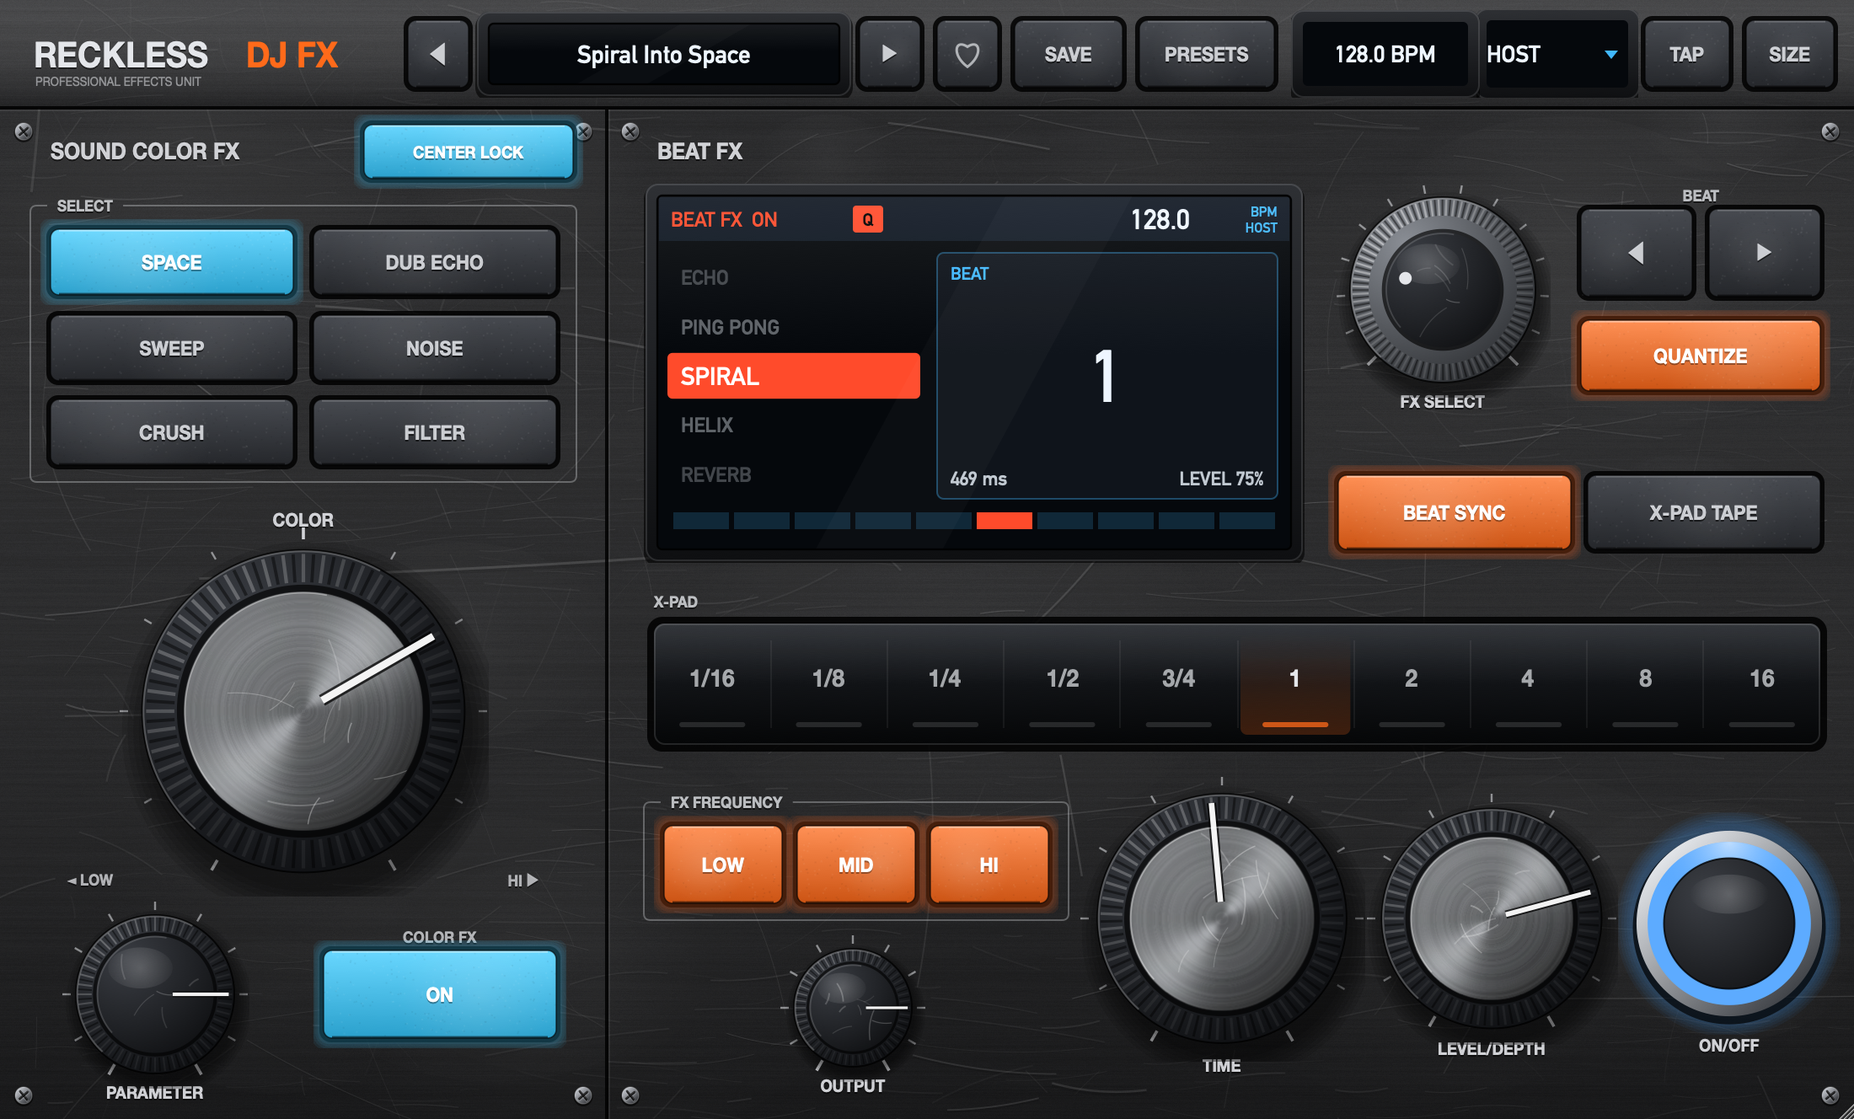
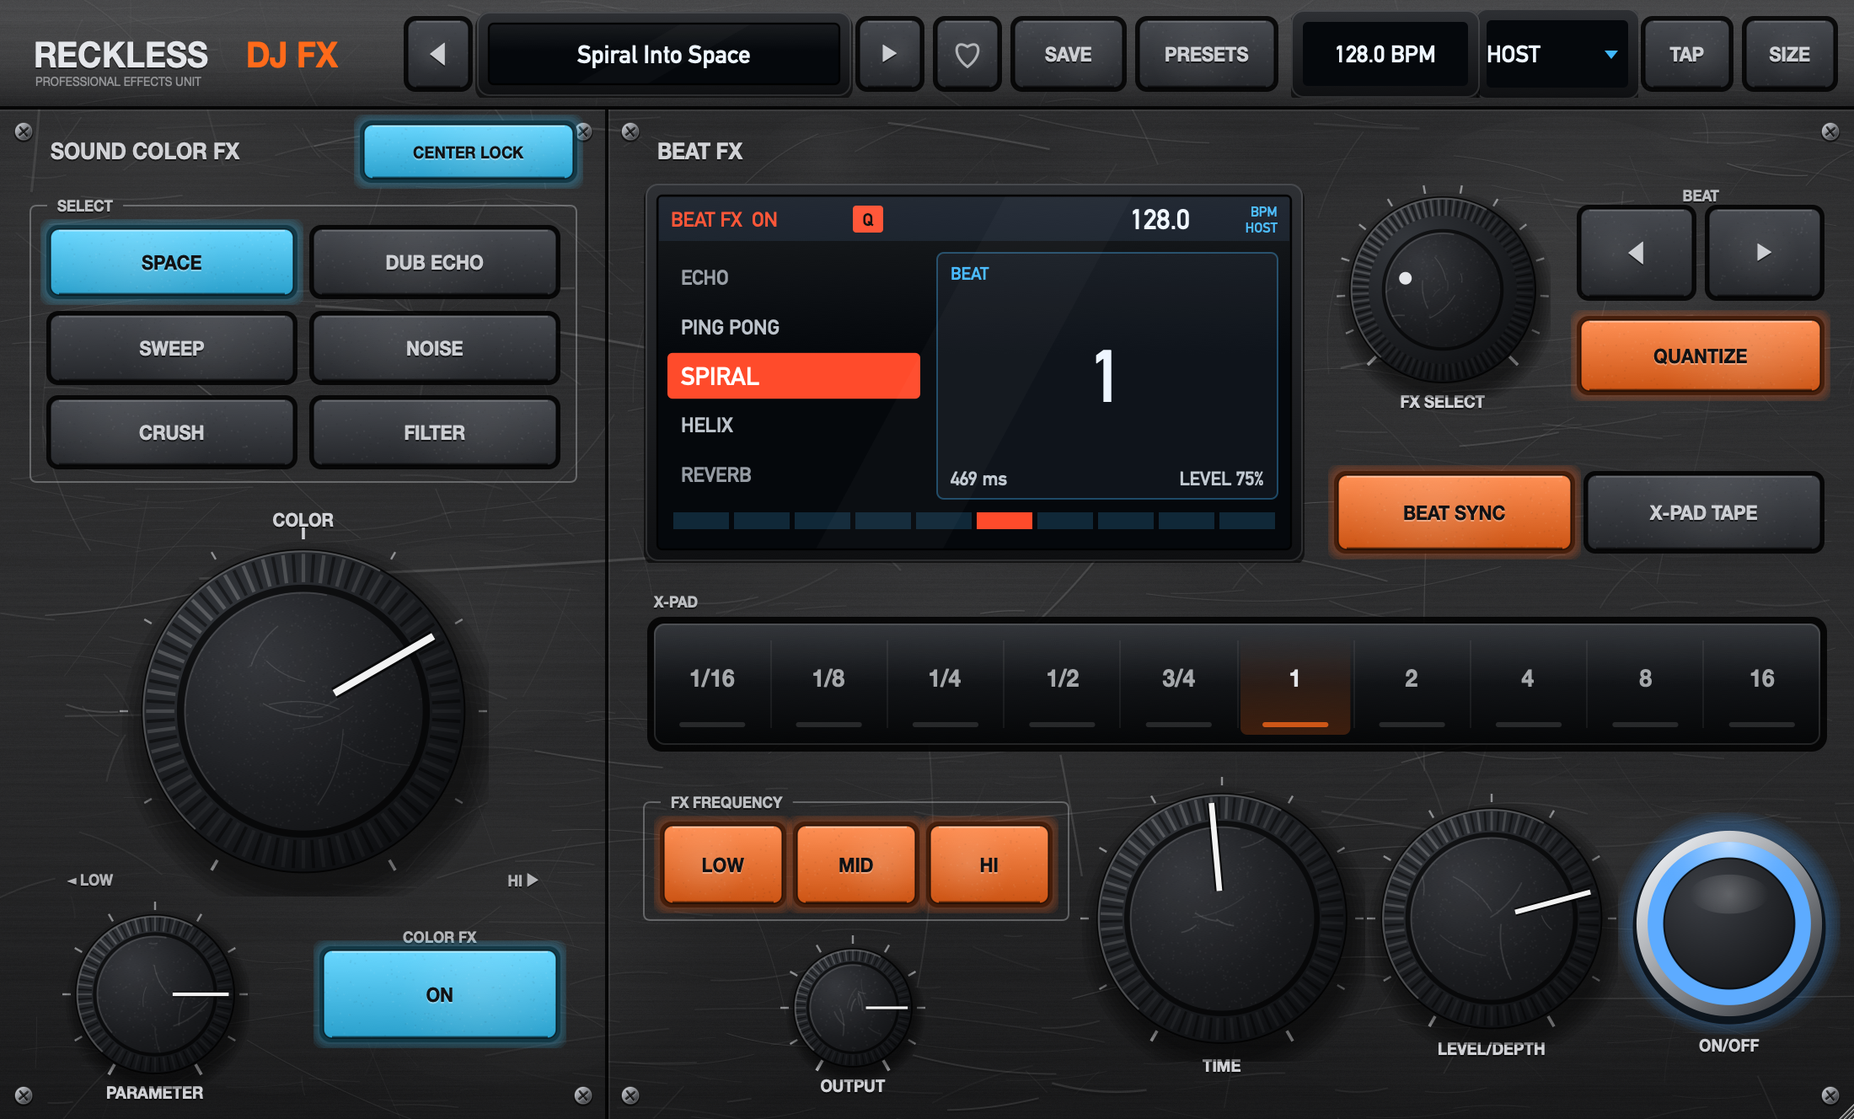
UI audit fixes: matte black knobs, readable lit keys, Color FX key toggle
- Knobs are matte black plastic like the mixer (spun-aluminium caps removed)
- Lit rubber keys use a dark legend (white on orange/cyan was < 3:1)
- LCD effect list: neighbours readable (>= 4.5:1) since they are clickable
- Color FX keys light only while on; pressing the lit key switches it off
- TIME knob greyed out more clearly while BEAT SYNC is on
- Beat panel repaints the screen/X-Pad only when shown values change,
  and the ON/OFF ring only while the effect is audible

diff --git a/Source/ui/Hardware.cpp b/Source/ui/Hardware.cpp
@@ -70,47 +70,6 @@ void scratch (juce::Graphics& g, juce::Random& rng, juce::Rectangle<float> area,
         g.strokePath (p, juce::PathStrokeType (width * 0.8f));
     }
 }
-/** Spun-aluminium cap rendered per pixel (no wedge seams): light gradient, concentric lathe rings
-    and the anisotropic "bow-tie" highlight typical of turned metal. Cached by pixel size. */
-const juce::Image& spunCap (int diameter, juce::uint32 seed)
-{
-    static std::map<std::pair<int, juce::uint32>, juce::Image> cache;
-    auto key = std::make_pair (diameter, seed);
-    if (auto it = cache.find (key); it != cache.end())
-        return it->second;
-
-    juce::Image img (juce::Image::ARGB, diameter, diameter, true);
-    juce::Random rng ((juce::int64) seed);
-    const float R = (float) diameter * 0.5f;
-    std::vector<float> rings ((size_t) diameter + 2);
-    float drift = 0.0f;
-    for (auto& v : rings)
-    {
-        drift = drift * 0.7f + (rng.nextFloat() - 0.5f) * 0.05f;
-        v = drift + (rng.nextFloat() - 0.5f) * 0.035f;
-    }
-
-    juce::Image::BitmapData data (img, juce::Image::BitmapData::writeOnly);
-    for (int y = 0; y < diameter; ++y)
-        for (int x = 0; x < diameter; ++x)
-        {
-            const float dx = (float) x + 0.5f - R, dy = (float) y + 0.5f - R;
-            const float dist = std::sqrt (dx * dx + dy * dy);
-            if (dist > R + 0.5f)
-                continue;
-            const float edgeAlpha = juce::jlimit (0.0f, 1.0f, R + 0.5f - dist);
-            const float th = std::atan2 (dy, dx);
-            const float lin = -(dx + dy) / (R * 1.4142f);                              // light from top-left
-            const float aniso = std::pow (std::abs (std::cos (th + juce::MathConstants<float>::pi * 0.25f)), 10.0f);
-            const float centreFade = juce::jlimit (0.0f, 1.0f, dist / (R * 0.15f));
-            float lum = 0.58f + 0.22f * lin + 0.40f * aniso * centreFade + rings[(size_t) (dist * 1.6f) % rings.size()];
-            lum -= 0.10f * std::pow (dist / R, 6.0f);                                  // darker rim
-            const auto v = (float) juce::jlimit (0.0f, 1.0f, lum);
-            data.setPixelColour (x, y, juce::Colour::fromFloatRGBA (v * 0.97f, v * 0.985f, v, edgeAlpha));
-        }
-
-    return cache.emplace (key, img).first->second;
-}
 } // namespace
 
 juce::uint32 seedOf (const juce::String& s) { return (juce::uint32) s.hashCode(); }
@@ -287,23 +246,22 @@ void drawKnob (juce::Graphics& g, juce::Rectangle<float> bounds, float angle, Kn
     }
 
     // Skirt
-    const bool metalSkirt = style == KnobStyle::Encoder;
+    const bool fineKnurl = style == KnobStyle::Encoder;
     {
-        juce::ColourGradient grad (metalSkirt ? juce::Colour (0xff8a8e95) : juce::Colour (0xff3b3e44),
-                                   c.translated (-r * 0.4f, -r * 0.5f),
-                                   metalSkirt ? juce::Colour (0xff1e2023) : juce::Colour (0xff07080a),
+        juce::ColourGradient grad (juce::Colour (0xff34373c), c.translated (-r * 0.4f, -r * 0.5f),
+                                   juce::Colour (0xff07080a),
                                    c.translated (r * 0.9f, r * 0.9f), true);
         g.setGradientFill (grad);
         g.fillEllipse (juce::Rectangle<float> (r * 2.0f, r * 2.0f).withCentre (c));
     }
 
     // Knurling (rotates with the knob)
-    const int ridges = metalSkirt ? 72 : 48;
+    const int ridges = fineKnurl ? 72 : 48;
     for (int k = 0; k < ridges; ++k)
     {
         const float th = angle + twoPi * (float) k / (float) ridges;
         const float lit = juce::jmax (0.0f, std::cos (th - kLightDir));
-        g.setColour (juce::Colours::white.withAlpha ((metalSkirt ? 0.10f : 0.05f) + (metalSkirt ? 0.35f : 0.20f) * lit));
+        g.setColour (juce::Colours::white.withAlpha (0.04f + 0.16f * lit));
         g.drawLine ({ polar (c, r * 0.80f, th), polar (c, r * 0.975f, th) }, juce::jmax (0.7f, r * 0.022f));
         const float th2 = th + twoPi * 0.5f / (float) ridges;
         g.setColour (juce::Colours::black.withAlpha (0.45f));
@@ -324,26 +282,26 @@ void drawKnob (juce::Graphics& g, juce::Rectangle<float> bounds, float angle, Kn
     g.setColour (juce::Colours::black.withAlpha (0.65f));
     g.fillEllipse (capRect.expanded (capR * 0.06f));
 
-    const bool metalCap = style == KnobStyle::Metal;
-    if (metalCap)
+    // Matte black plastic cap: soft diffuse shading, no specular, fine grain
     {
-        // Render the cap at the device resolution so it stays crisp when the editor is scaled up
-        const float pixelScale = juce::jmax (1.0f, g.getInternalContext().getPhysicalPixelScaleFactor());
-        // quantised to 16 px steps so free resizing does not fill the cache with every size
-        const int diameter = juce::jlimit (32, 1024, ((juce::roundToInt (capR * 2.0f * pixelScale) + 15) / 16) * 16);
-        g.drawImage (spunCap (diameter, seed), capRect, juce::RectanglePlacement::stretchToFit);
-    }
-    else
-    {
-        juce::ColourGradient grad (juce::Colour (0xff3a3d43), c.translated (-capR * 0.5f, -capR * 0.6f),
-                                   juce::Colour (0xff0c0d0f), c.translated (capR * 0.9f, capR * 0.9f), true);
+        juce::ColourGradient grad (juce::Colour (0xff2c2e33), c.translated (-capR * 0.45f, -capR * 0.55f),
+                                   juce::Colour (0xff111214), c.translated (capR * 0.9f, capR * 0.9f), true);
         g.setGradientFill (grad);
         g.fillEllipse (capRect);
-        // Glossy specular blob
-        const auto spec = juce::Rectangle<float> (capR * 1.1f, capR * 0.7f).withCentre (c.translated (-capR * 0.25f, -capR * 0.45f));
-        g.setGradientFill (juce::ColourGradient (juce::Colours::white.withAlpha (0.20f), spec.getCentre(),
-                                                 juce::Colours::transparentWhite, spec.getTopRight(), true));
-        g.fillEllipse (spec);
+        g.setGradientFill (juce::ColourGradient (juce::Colours::white.withAlpha (0.05f), c.translated (-capR * 0.3f, -capR * 0.4f),
+                                                 juce::Colours::transparentWhite, c.translated (capR * 0.6f, capR * 0.2f), true));
+        g.fillEllipse (capRect);
+
+        juce::Graphics::ScopedSaveState save (g);
+        juce::Path clip;
+        clip.addEllipse (capRect);
+        g.reduceClipRegion (clip);
+        const int grains = (int) (capR * capR * 0.35f);
+        for (int i = 0; i < grains; ++i)
+        {
+            g.setColour ((rng.nextBool() ? juce::Colours::white : juce::Colours::black).withAlpha (0.035f));
+            g.fillRect (capRect.getX() + rng.nextFloat() * capRect.getWidth(), capRect.getY() + rng.nextFloat() * capRect.getHeight(), 1.0f, 1.0f);
+        }
     }
 
     // Wear: scratches on the cap (rotate with the knob)
@@ -363,7 +321,7 @@ void drawKnob (juce::Graphics& g, juce::Rectangle<float> bounds, float angle, Kn
             s.startNewSubPath (p0);
             s.quadraticTo (p0 + juce::Point<float> (std::cos (dir + 0.3f), std::sin (dir + 0.3f)) * len * 0.5f,
                            p0 + juce::Point<float> (std::cos (dir), std::sin (dir)) * len);
-            g.setColour (juce::Colours::white.withAlpha ((metalCap ? 0.18f : 0.10f) + rng.nextFloat() * 0.15f));
+            g.setColour (juce::Colours::white.withAlpha (0.05f + rng.nextFloat() * 0.08f)); // faint scuffs on matte plastic
             g.strokePath (s, juce::PathStrokeType (0.5f + rng.nextFloat() * 0.5f), rot);
         }
     }
@@ -376,7 +334,7 @@ void drawKnob (juce::Graphics& g, juce::Rectangle<float> bounds, float angle, Kn
     }
     else
     {
-        const auto p0 = polar (c, metalCap ? capR * 0.18f : capR * 0.30f, angle);
+        const auto p0 = polar (c, capR * 0.30f, angle);
         const auto p1 = polar (c, r * 0.93f, angle);
         g.setColour (juce::Colours::black.withAlpha (0.75f));
         g.drawLine ({ p0, p1 }, juce::jmax (2.6f, r * 0.075f));
@@ -385,7 +343,7 @@ void drawKnob (juce::Graphics& g, juce::Rectangle<float> bounds, float angle, Kn
     }
 
     // Cap edge highlight
-    g.setColour (juce::Colours::white.withAlpha (metalCap ? 0.35f : 0.15f));
+    g.setColour (juce::Colours::white.withAlpha (0.12f));
     juce::Path edge;
     edge.addCentredArc (c.x, c.y, capR - 0.6f, capR - 0.6f, 0.0f, -2.3f, 0.2f, true);
     g.strokePath (edge, juce::PathStrokeType (0.9f));

diff --git a/Source/ui/Panels.cpp b/Source/ui/Panels.cpp
@@ -40,7 +40,8 @@ static void caption (juce::Graphics& g, const juce::String& text, juce::Rectangl
 }
 
 //==============================================================================
-ChoiceButtons::ChoiceButtons (APVTS& state, const char* paramID, const juce::StringArray& labels, int cols, juce::Colour led)
+ChoiceButtons::ChoiceButtons (APVTS& state, const char* paramID, const juce::StringArray& labels, int cols, juce::Colour led,
+                              const char* gateParamID)
     : columns (cols)
 {
     for (int i = 0; i < labels.size(); ++i)
@@ -48,19 +49,30 @@ ChoiceButtons::ChoiceButtons (APVTS& state, const char* paramID, const juce::Str
         auto* b = buttons.add (new juce::TextButton (labels[i]));
         b->setName (juce::String (paramID) + juce::String (i));
         LookAndFeel::setAccent (*b, led);
-        b->onClick = [this, i] { attachment->setValueAsCompleteGesture ((float) i); };
+        b->onClick = [this, i]
+        {
+            if (onPick) onPick (i);
+            else attachment->setValueAsCompleteGesture ((float) i);
+        };
         addAndMakeVisible (b);
     }
 
     attachment = std::make_unique<juce::ParameterAttachment> (
-        *state.getParameter (paramID),
-        [this] (float v)
-        {
-            const int idx = juce::roundToInt (v);
-            for (int i = 0; i < buttons.size(); ++i)
-                buttons[i]->setToggleState (i == idx, juce::dontSendNotification);
-        });
+        *state.getParameter (paramID), [this] (float v) { selected = juce::roundToInt (v); updateLights(); });
     attachment->sendInitialUpdate();
+
+    if (gateParamID != nullptr)
+    {
+        gateAttachment = std::make_unique<juce::ParameterAttachment> (
+            *state.getParameter (gateParamID), [this] (float v) { gateOn = v > 0.5f; updateLights(); });
+        gateAttachment->sendInitialUpdate();
+    }
+}
+
+void ChoiceButtons::updateLights()
+{
+    for (int i = 0; i < buttons.size(); ++i)
+        buttons[i]->setToggleState (gateOn && i == selected, juce::dontSendNotification);
 }
 
 void ChoiceButtons::resized()
@@ -140,14 +152,29 @@ ToggleBtn::ToggleBtn (APVTS& state, const char* paramID, const juce::String& tex
 
 //==============================================================================
 ColorFxPanel::ColorFxPanel (APVTS& state)
-    : types (state, ParamID::colorType, colorFxNames(), 2, Col::colorLed),
-      colorKnob (state, ParamID::colorAmt, "COLOR", "metal", 11, true, std::make_unique<CenterLockSlider> (state)),
-      paramKnob (state, ParamID::colorParam, "PARAMETER", "black", 11, false),
+    : types (state, ParamID::colorType, colorFxNames(), 2, Col::colorLed, ParamID::colorOn),
+      colorKnob (state, ParamID::colorAmt, "COLOR", "matte", 11, true, std::make_unique<CenterLockSlider> (state)),
+      paramKnob (state, ParamID::colorParam, "PARAMETER", "matte", 11, false),
       onButton (state, ParamID::colorOn, "ON", Col::colorLed),
       lockButton (state, ParamID::centerLock, "CENTER LOCK", Col::colorLed)
 {
     colorKnob.getSlider().setDoubleClickReturnValue (true, 0.0);
     paramKnob.getSlider().setDoubleClickReturnValue (true, 0.5);
+
+    // Like the mixer: press a Color FX key to switch it on, press the lit key again to switch it off
+    types.onPick = [&state] (int i)
+    {
+        const bool on = getParam (state, ParamID::colorOn) > 0.5f;
+        if (on && (int) getParam (state, ParamID::colorType) == i)
+        {
+            setParam (state, ParamID::colorOn, 0.0f);
+        }
+        else
+        {
+            setParam (state, ParamID::colorType, (float) i);
+            setParam (state, ParamID::colorOn, 1.0f);
+        }
+    };
     for (auto* c : std::initializer_list<juce::Component*> { &types, &colorKnob, &paramKnob, &onButton, &lockButton })
         addAndMakeVisible (c);
 }
@@ -337,7 +364,8 @@ void BeatScreen::paint (juce::Graphics& g)
             g.setColour (Col::lcdAccent);
             g.fillRoundedRectangle (row.reduced (0.0f, 1.0f), 3.0f);
         }
-        g.setColour (k == 0 ? juce::Colours::white : Col::lcdText.withAlpha (0.5f - 0.12f * (float) std::abs (k)));
+        // Neighbours stay readable (>= 4.5:1 on the black screen): they are clickable
+        g.setColour (k == 0 ? juce::Colours::white : Col::lcdText.withAlpha (std::abs (k) == 1 ? 0.78f : 0.62f));
         g.setFont (lcdFont (k == 0 ? 17.0f : 14.0f));
         g.drawText (beatFxNames()[t], row.reduced (8.0f, 0.0f), juce::Justification::centredLeft);
     }
@@ -404,9 +432,9 @@ BeatFxPanel::BeatFxPanel (RecklessDJFXProcessor& p)
       screen (p),
       selectKnob (state, ParamID::beatType, "FX SELECT", "encoder", kNumBeatFx, false),
       xpad (state),
-      timeKnob (state, ParamID::timeMs, "TIME", "metal", 11, false),
-      levelKnob (state, ParamID::level, "LEVEL/DEPTH", "metal", 11, false),
-      outKnob (state, ParamID::outGain, "OUTPUT", "black", 11, false),
+      timeKnob (state, ParamID::timeMs, "TIME", "matte", 11, false),
+      levelKnob (state, ParamID::level, "LEVEL/DEPTH", "matte", 11, false),
+      outKnob (state, ParamID::outGain, "OUTPUT", "matte", 11, false),
       low (state, ParamID::fxLow, "LOW", Col::beatLed),
       mid (state, ParamID::fxMid, "MID", Col::beatLed),
       hi (state, ParamID::fxHi, "HI", Col::beatLed),
@@ -447,17 +475,35 @@ void BeatFxPanel::stepBeat (int delta)
 
 void BeatFxPanel::timerCallback()
 {
-    timeKnob.setAlpha (getParam (state, ParamID::beatSync) > 0.5f ? 0.75f : 1.0f);
+    // TIME only acts when BEAT SYNC is off: grey it out otherwise
+    timeKnob.setAlpha (getParam (state, ParamID::beatSync) > 0.5f ? 0.45f : 1.0f);
 
-    // ON/OFF ring pulses with the tempo while the effect is engaged
+    // ON/OFF ring pulses with the tempo, only while the effect is audible
     const bool engaged = processor.isBeatFxEngaged();
-    const double beatPhase = std::fmod (juce::Time::getMillisecondCounterHiRes() * processor.getCurrentBpm() / 60000.0, 1.0);
-    onButton.getProperties().set ("glow", engaged ? 1.0 - beatPhase : 0.0);
-    if (engaged || onButton.getToggleState())
+    if (engaged)
+    {
+        const double beatPhase = std::fmod (juce::Time::getMillisecondCounterHiRes() * processor.getCurrentBpm() / 60000.0, 1.0);
+        onButton.getProperties().set ("glow", 1.0 - beatPhase);
         onButton.repaint();
+    }
+    else if ((double) onButton.getProperties()["glow"] != 0.0)
+    {
+        onButton.getProperties().set ("glow", 0.0);
+        onButton.repaint();
+    }
 
-    screen.repaint();
-    xpad.repaint();
+    // Screen and X-Pad: repaint only when something they show has changed
+    juce::String now;
+    for (auto* id : { ParamID::beatType, ParamID::beatIdx, ParamID::beatSync, ParamID::beatOn, ParamID::timeMs,
+                      ParamID::level, ParamID::quantize, ParamID::bpmMode })
+        now << getParam (state, id) << ";";
+    now << juce::String (processor.getCurrentBpm(), 1) << ";" << (int) engaged;
+    if (now != lastScreenState)
+    {
+        lastScreenState = now;
+        screen.repaint();
+        xpad.repaint();
+    }
 }
 
 void BeatFxPanel::paint (juce::Graphics& g)

diff --git a/Source/ui/LookAndFeel.cpp b/Source/ui/LookAndFeel.cpp
@@ -53,9 +53,7 @@ void LookAndFeel::drawRotarySlider (juce::Graphics& g, int x, int y, int w, int 
                                     float startAngle, float endAngle, juce::Slider& s)
 {
     const auto style = s.getProperties()["knob"].toString();
-    const auto knobStyle = style == "encoder" ? hw::KnobStyle::Encoder
-                         : style == "black"   ? hw::KnobStyle::Black
-                                              : hw::KnobStyle::Metal;
+    const auto knobStyle = style == "encoder" ? hw::KnobStyle::Encoder : hw::KnobStyle::Matte;
     const int ticks = s.getProperties().getWithDefault ("ticks", 11);
     const bool detent = s.getProperties().getWithDefault ("detent", false);
     const float angle = startAngle + pos * (endAngle - startAngle);
@@ -141,9 +139,10 @@ void LookAndFeel::drawButtonText (juce::Graphics& g, juce::TextButton& b, bool, 
     if (down) r.translate (0.0f, 1.0f);
     const bool on = b.getToggleState();
     g.setFont (hw::printFont (juce::jlimit (9.0f, 14.0f, r.getHeight() * 0.42f)));
-    g.setColour (juce::Colours::black.withAlpha (on ? 0.35f : 0.6f));
+    // Lit keys get a dark legend (white on orange/cyan is below 3:1), unlit keys a white one
+    g.setColour (on ? juce::Colours::white.withAlpha (0.35f) : juce::Colours::black.withAlpha (0.6f));
     g.drawFittedText (b.getButtonText(), r.translated (0.0f, 1.0f).toNearestInt(), juce::Justification::centred, 2, 0.75f);
-    g.setColour (on ? juce::Colours::white : hw::Col::print.withAlpha (b.isEnabled() ? 0.88f : 0.35f));
+    g.setColour (on ? juce::Colour (0xff111214) : hw::Col::print.withAlpha (b.isEnabled() ? 0.88f : 0.35f));
     g.drawFittedText (b.getButtonText(), r.toNearestInt(), juce::Justification::centred, 2, 0.75f);
 }
 

diff --git a/Source/ui/Panels.h b/Source/ui/Panels.h
@@ -14,17 +14,25 @@ using APVTS = juce::AudioProcessorValueTreeState;
 void setParam (APVTS& state, const char* id, float realValue);
 float getParam (const APVTS& state, const char* id);
 
-/** A radio group of back-lit rubber keys bound to a choice parameter. */
+/** A radio group of back-lit rubber keys bound to a choice parameter.
+    With a `gateParamID` (a bool parameter), the selected key is only lit while that parameter is on. */
 class ChoiceButtons final : public juce::Component
 {
 public:
-    ChoiceButtons (APVTS& state, const char* paramID, const juce::StringArray& labels, int columns, juce::Colour led);
+    ChoiceButtons (APVTS& state, const char* paramID, const juce::StringArray& labels, int columns, juce::Colour led,
+                   const char* gateParamID = nullptr);
     void resized() override;
 
+    /** Replaces the default "select this choice" click behaviour. */
+    std::function<void (int index)> onPick;
+
 private:
+    void updateLights();
+
     juce::OwnedArray<juce::TextButton> buttons;
-    std::unique_ptr<juce::ParameterAttachment> attachment;
-    int columns;
+    std::unique_ptr<juce::ParameterAttachment> attachment, gateAttachment;
+    int columns, selected = 0;
+    bool gateOn = true;
 };
 
 /** Hardware knob bound to a parameter. The caption is printed on the faceplate by the panel. */
@@ -126,6 +134,7 @@ private:
     void stepBeat (int delta);
 
     RecklessDJFXProcessor& processor;
+    juce::String lastScreenState;
     APVTS& state;
     BeatScreen screen;
     Knob selectKnob;

diff --git a/Source/ui/Hardware.h b/Source/ui/Hardware.h
@@ -4,7 +4,7 @@
 
 /**
     Procedural "real hardware" rendering: brushed anodised faceplate with scratches and wear,
-    knurled knobs with spun-aluminium caps, back-lit rubber buttons, LCD glass, screws and silk-screen print.
+    knurled matte-black knobs, back-lit rubber buttons, LCD glass, screws and silk-screen print.
     Everything is drawn in code (no bitmaps shipped) and deterministic, so the wear looks the same every time.
 */
 namespace rdfx::hw
@@ -25,7 +25,8 @@ namespace Col
     inline const juce::Colour lcdBlue    { 0xff41b8ff };
 }
 
-enum class KnobStyle { Metal, Black, Encoder };
+/** All knobs are matte black like the mixer; the encoder has a finer knurl and a dot pointer. */
+enum class KnobStyle { Matte, Encoder };
 
 /** Brushed dark metal with scratches, scuffs and edge wear. Cached per size. */
 const juce::Image& faceplate (int width, int height, juce::uint32 seed);

diff --git a/Source/ui/LookAndFeel.h b/Source/ui/LookAndFeel.h
@@ -39,7 +39,7 @@ public:
     juce::Font getLabelFont (juce::Label&) override;
 
     /** Component properties understood by this look:
-          Slider:  "knob" = "metal" | "black" | "encoder", "ticks" = int, "detent" = bool
+          Slider:  "knob" = "matte" | "encoder", "ticks" = int, "detent" = bool
           Button:  "btn"  = "round" | "rubber" (default) | "flat" (browser UI)            */
     static juce::Colour accentOf (const juce::Component& c);
     static void setAccent (juce::Component& c, juce::Colour accent);

diff --git a/README.md b/README.md
@@ -42,7 +42,7 @@ Plugin d'effets **VST3 / AU** (macOS, + VST3 Windows via la CI) qui reprend tout
 ## Interface « hardware »
 Toute l'interface est dessinée par le code, sans aucune image embarquée, avec un rendu matériel en 3D :
 - façade en aluminium anodisé brossé, avec rayures, traces d'usure et vis ;
-- potards à jupe crantée et chapeau en alu tourné : reflet anisotrope calculé pixel par pixel et rayures qui tournent avec le potard ;
+- potards noir mat à jupe crantée, comme sur la table, avec de légères éraflures qui tournent avec le potard ;
 - touches en caoutchouc rétroéclairées ;
 - écran couleur avec reflet de vitre ;
 - X-Pad en verre noir ;
